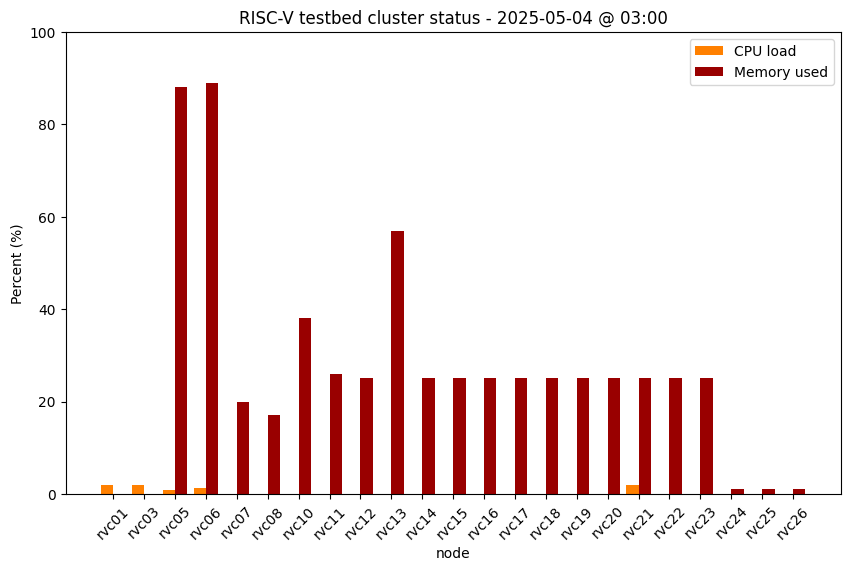
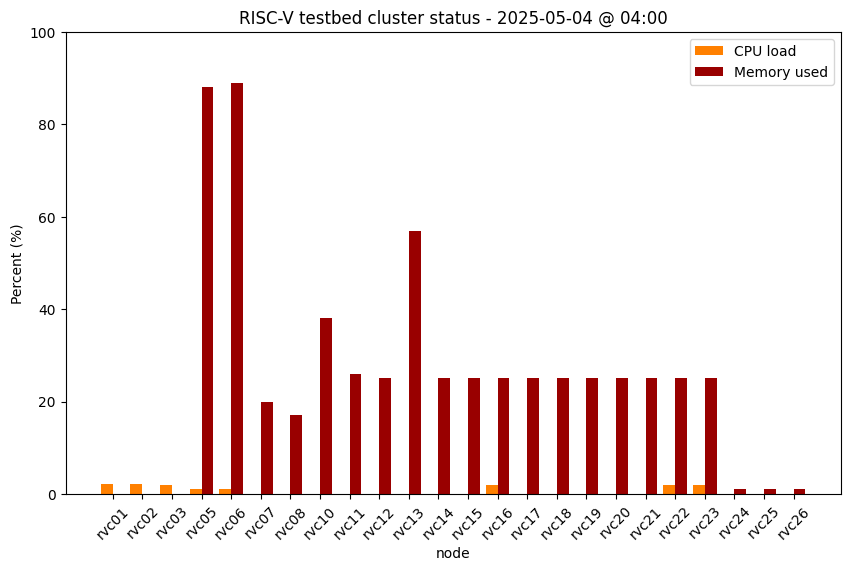
Update cluster status

Changed region(s): [[0.1529, 0.1489, 0.9482, 0.9527], [0.7341, 0.0298, 0.7647, 0.0595]]

diff --git a/status.md b/status.md
@@ -14,7 +14,7 @@ permalink: /status/
 | Description  | Hostname | # of cores | DRAM | Status |
 | ------------- | ------------- |  ------------- | ------------- | ------------- | 
 | Banana Pi BPI-F3 #1 | rvc01 | 8 | 16GB | <img src="/images/on.png" alt="green light" width="10"/> up |
-| Milk-V Jupiter #1 | rvc02 | 8 | 16GB | <img src="/images/off.png" alt="red light" width="10"/> down |
+| Milk-V Jupiter #1 | rvc02 | 8 | 16GB | <img src="/images/on.png" alt="green light" width="10"/> up |
 | Milk-V Jupiter #2 | rvc03 | 8 | 16GB | <img src="/images/on.png" alt="green light" width="10"/> up |
 | DongshanNezhaSTU #4 | rvc04 | 1 | 512MB | <img src="/images/amber.png" alt="amber light" width="10"/> offline |
 | MangoPi MQ-Pro #1 | rvc05 | 1 | 1GB | <img src="/images/on.png" alt="green light" width="10"/> up |
